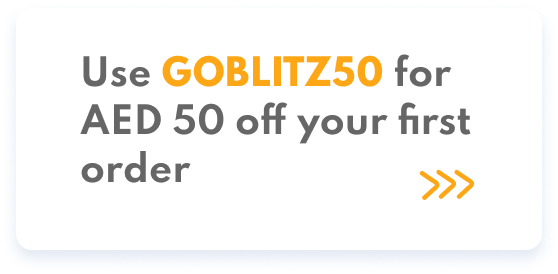
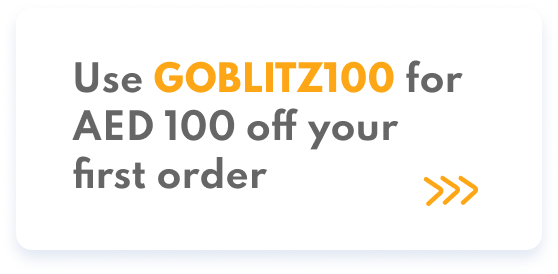
HY-382 | Changed promo code

Changed region(s): [[0.1219, 0.2044, 0.853, 0.5547], [0.1219, 0.5547, 0.4875, 0.7007], [0.7312, 0.6131, 0.853, 0.7591]]

diff --git a/src/navigation/NavigationUtilities.ts b/src/navigation/NavigationUtilities.ts
@@ -36,9 +36,12 @@ export const onStateChangeHandler = async (state: NavigationState | undefined) =
   }
 
   const route = state.routes[state.routes.length - 1];
-  await analytics().logScreenView({
-    screen_name: route.name,
-    screen_class: route.name,
-  });
+  if (!__DEV__) {
+    await analytics()
+      .logScreenView({
+        screen_name: route.name,
+        screen_class: route.name,
+      });
+  }
   console.log(`Navigate to: ${route.name}`, route.params);
 };

diff --git a/src/components/DrawerContent/index.tsx b/src/components/DrawerContent/index.tsx
@@ -43,7 +43,7 @@ const DrawerContent: React.FC<IDrawerContentProps> = ({ theme, ...rest }) => {
       <Text style={styles.description}>
         {i18n.t('components.drawerContent.description')}
       </Text>
-      <Text selectable style={styles.promoCode}>GOBLITZ50</Text>
+      <Text selectable style={styles.promoCode}>GOBLITZ100</Text>
     </View>
   ));
 
